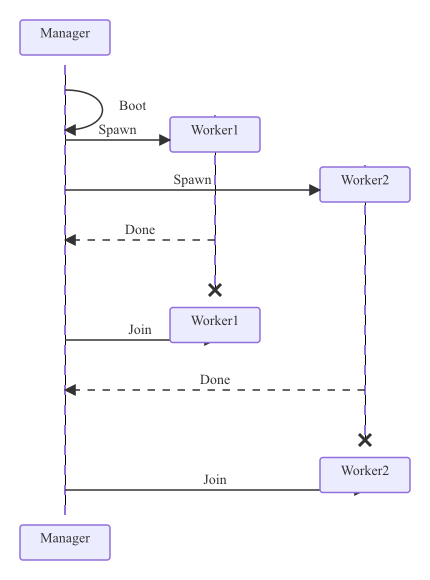
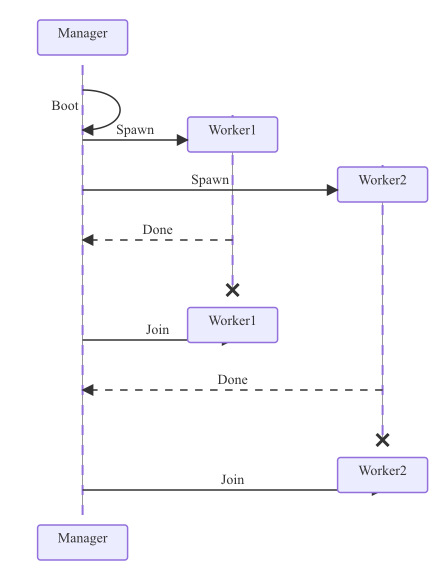
sequence: Q3 render self-message label left of lifeline (#123)
Move self-message labels from the right side (where they collided
with the loop arc and got clipped at the rightmost layout edge) to
the left side (text-anchor:end at lifeline-4). Mirrors mmdc.

Adds selfMsgLeftBleed in computeLayout so the layout reserves room
for the label when the self-message is on the leftmost participant.
Without this, labels would clip at the viewBox left edge instead.

diff --git a/pkg/renderer/sequence/renderer.go b/pkg/renderer/sequence/renderer.go
@@ -131,6 +131,9 @@ func computeLayout(d *diagram.SequenceDiagram, fontSize, pad float64) seqLayout 
 		pIndex[p.ID] = i
 	}
 	leftBleed, rightBleed := noteBleed(d.Items, pIndex, n)
+	if l := selfMsgLeftBleed(d.Items, pIndex, fontSize); l > leftBleed {
+		leftBleed = l
+	}
 	if extra := leftBleed - pad; extra > 0 {
 		// Shift everything right so left-side notes fit.
 		for i := range xs {
@@ -277,6 +280,42 @@ func noteBleed(items []diagram.SequenceItem, pIndex map[string]int, n int) (left
 		}
 	}
 	return
+}
+
+// selfMsgLeftBleed returns the pixel extent the layout's left edge
+// must reserve for self-message labels on the leftmost participant
+// (text-anchor:end at lifeline x, label rendered to the left).
+func selfMsgLeftBleed(items []diagram.SequenceItem, pIndex map[string]int, fontSize float64) float64 {
+	const gap = 4.0
+	var bleed float64
+	for _, item := range items {
+		switch {
+		case item.Message != nil:
+			m := item.Message
+			if m.From != m.To || m.Label == "" {
+				continue
+			}
+			idx, ok := pIndex[m.From]
+			if !ok || idx != 0 {
+				continue
+			}
+			for _, ln := range splitLabelLines(m.Label) {
+				if w := textmeasure.EstimateWidth(ln, fontSize) + gap; w > bleed {
+					bleed = w
+				}
+			}
+		case item.Block != nil:
+			if l := selfMsgLeftBleed(item.Block.Items, pIndex, fontSize); l > bleed {
+				bleed = l
+			}
+			for _, br := range item.Block.Branches {
+				if l := selfMsgLeftBleed(br.Items, pIndex, fontSize); l > bleed {
+					bleed = l
+				}
+			}
+		}
+	}
+	return bleed
 }
 
 func countRows(d *diagram.SequenceDiagram) int {

diff --git a/pkg/renderer/sequence/renderer_test.go b/pkg/renderer/sequence/renderer_test.go
@@ -769,6 +769,36 @@ func TestRenderSelfMessageUsesArcPath(t *testing.T) {
 	assertValidSVG(t, out)
 }
 
+func TestRenderSelfMessageLabelLeftOfLifeline(t *testing.T) {
+	// mmdc renders a self-message label to the *left* of the lifeline
+	// (text-anchor:end) so it doesn't collide with the right-side
+	// loop arc and avoids being clipped by the rightmost layout edge.
+	d := &diagram.SequenceDiagram{
+		Participants: []diagram.Participant{
+			{ID: "Worker", Kind: diagram.ParticipantKindParticipant, CreatedAtItem: -1, DestroyedAtItem: -1},
+		},
+		Items: []diagram.SequenceItem{
+			diagram.NewMessageItem(diagram.Message{
+				From: "Worker", To: "Worker", Label: "Recursive step",
+				ArrowType: diagram.ArrowTypeSolid,
+			}),
+		},
+	}
+	out, err := Render(d, nil)
+	if err != nil {
+		t.Fatalf("Render: %v", err)
+	}
+	raw := string(out)
+	re := regexp.MustCompile(`<text[^>]*text-anchor="(\w+)"[^>]*>Recursive step</text>`)
+	m := re.FindStringSubmatch(raw)
+	if m == nil {
+		t.Fatalf("did not find self-message label; raw: %s", raw)
+	}
+	if m[1] != "end" {
+		t.Errorf("self-message label should be end-anchored (left of lifeline), got text-anchor=%q", m[1])
+	}
+}
+
 func TestRenderNestedActivationsOffsetByDepth(t *testing.T) {
 	d := &diagram.SequenceDiagram{
 		Participants: []diagram.Participant{

diff --git a/pkg/renderer/sequence/messages.go b/pkg/renderer/sequence/messages.go
@@ -224,7 +224,11 @@ func (mr *messageRenderer) renderSelfMessage(x, y float64, m diagram.Message) []
 	var elems []any
 	elems = append(elems, p)
 	if m.Label != "" {
-		elems = append(elems, multilineText(m.Label, x+selfLoopW+4, y+selfLoopH/2, "start", "central", mr.msgTextStyle, mr.fontSize)...)
+		// Label sits to the left of the lifeline (mmdc parity).
+		// The arc bulges right, so left is the only side that
+		// won't collide with the curve or get clipped at the
+		// layout's right edge for a rightmost participant.
+		elems = append(elems, multilineText(m.Label, x-4, y+selfLoopH/2, "end", "central", mr.msgTextStyle, mr.fontSize)...)
 	}
 	return elems
 }
